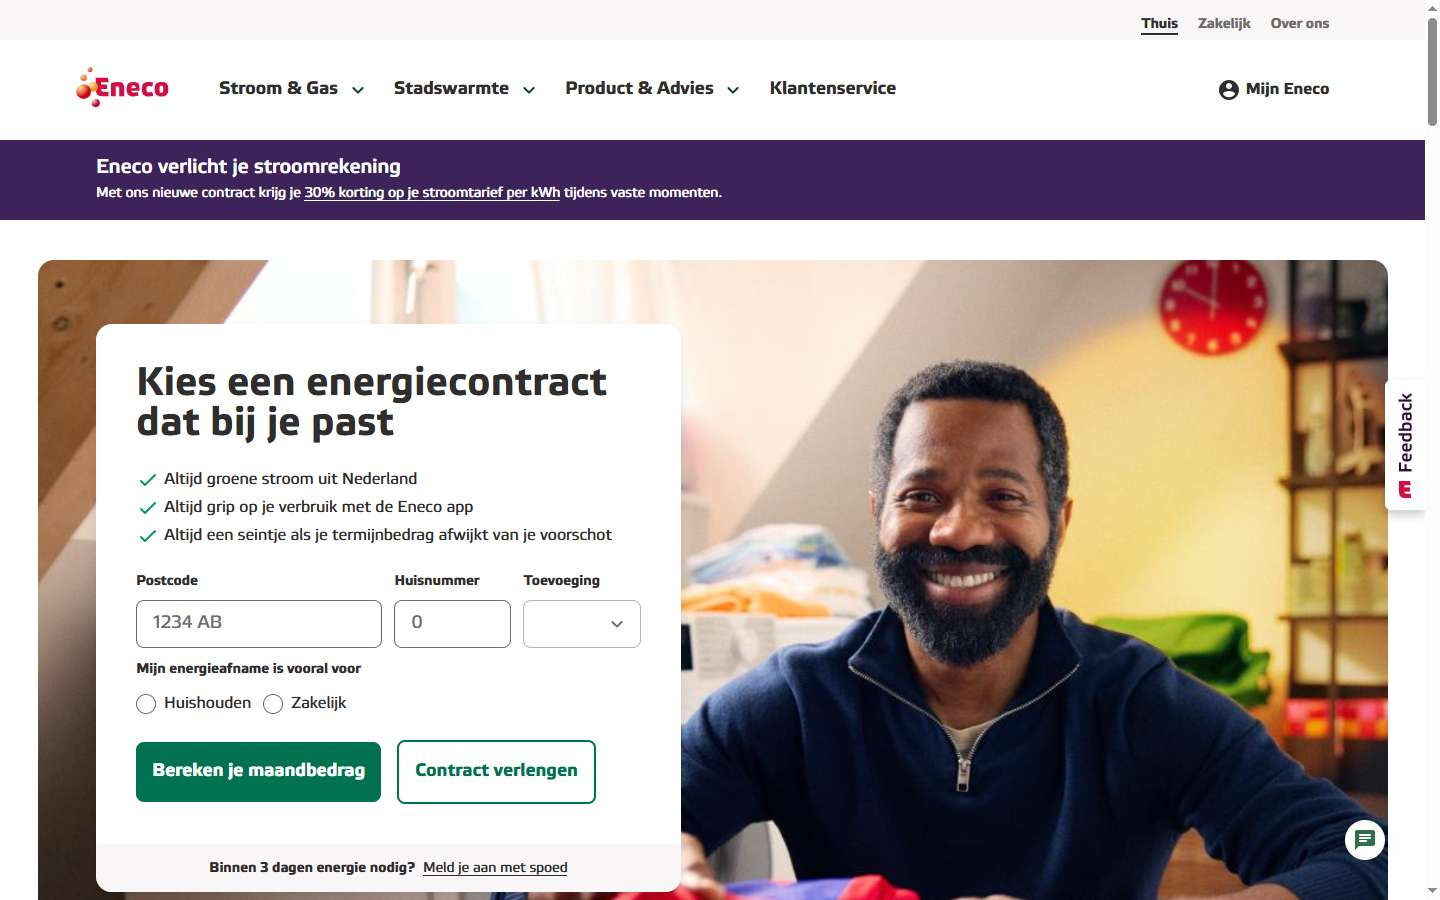
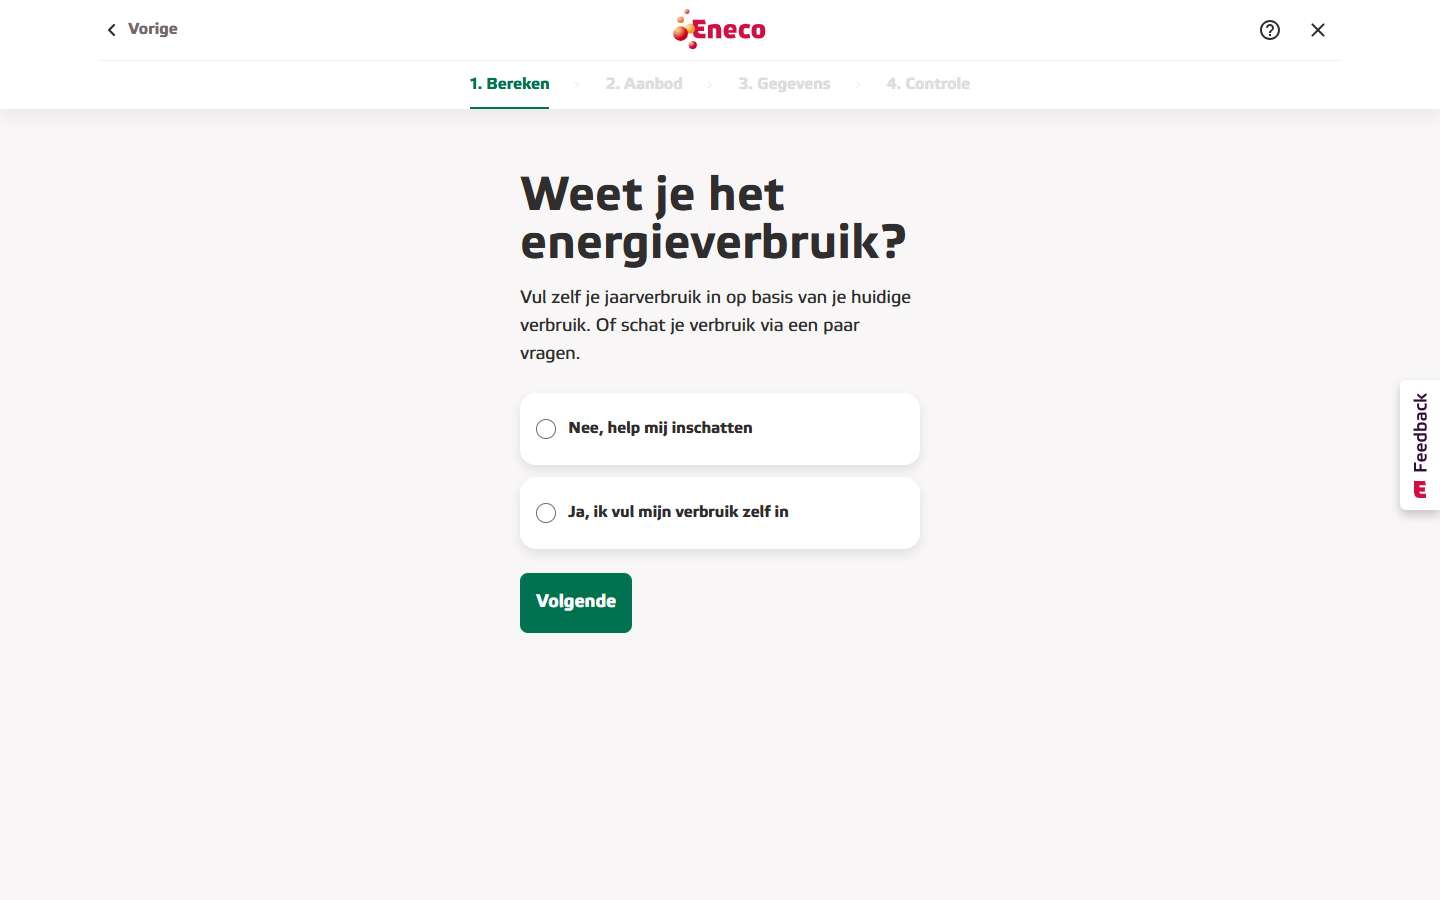
interactive snapshot button

diff --git a/apps/web/src/pages/ScenarioEditor.tsx b/apps/web/src/pages/ScenarioEditor.tsx
@@ -86,7 +86,7 @@ export function ScenarioEditor() {
     reload();
   }, [scenarioId]);
 
-  async function takeSnapshot(useUrl: boolean) {
+  async function takeSnapshot(useUrl: boolean, interactiveOnly = false) {
     if (!data) return;
     setErr(null);
     setSnapshotting(true);
@@ -95,6 +95,7 @@ export function ScenarioEditor() {
         url: useUrl ? data.url : undefined,
         session: SESSION,
         compact: true,
+        interactiveOnly,
       });
       setTree(res.tree);
     } catch (e: any) {
@@ -171,11 +172,28 @@ export function ScenarioEditor() {
     }
   }
 
-  async function playScenario() {
+  async function playScenario(opts: { reset?: boolean } = {}) {
     setErr(null);
     setPlayStatus(null);
     if (!previewActive) setPreviewActive(true);
-    if (!sessionAlive) {
+    if (opts.reset) {
+      setPlayStatus('Resetting session…');
+      setSessionAlive(false);
+      try {
+        await api.closeSession(SESSION).catch(() => undefined);
+        const r = await api.bootstrapSession(SESSION);
+        setSessionAlive(r.alive);
+        if (!r.alive) {
+          setPlayStatus(null);
+          setErr('Reset finished but the session did not come back up.');
+          return;
+        }
+      } catch (e: any) {
+        setPlayStatus(null);
+        setErr(e.message ?? String(e));
+        return;
+      }
+    } else if (!sessionAlive) {
       setPlayStatus('Bootstrapping session…');
       try {
         const r = await api.bootstrapSession(SESSION);
@@ -454,8 +472,15 @@ export function ScenarioEditor() {
             <button onClick={() => setPreviewActive((v) => !v)}>
               {previewActive ? 'stop' : 'start'}
             </button>{' '}
-            <button onClick={playScenario} disabled={data.steps.length === 0}>
+            <button onClick={() => playScenario()} disabled={data.steps.length === 0}>
               ▶ Play scenario
+            </button>{' '}
+            <button
+              onClick={() => playScenario({ reset: true })}
+              disabled={data.steps.length === 0 || resetting}
+              title="Reset the browser session, then play the scenario"
+            >
+              ↻▶ Reset &amp; play
             </button>
             {playStatus && <span className="muted" style={{ marginLeft: 8 }}>{playStatus}</span>}
           </h2>
@@ -468,6 +493,13 @@ export function ScenarioEditor() {
             </button>
             <button onClick={() => takeSnapshot(false)} disabled={snapshotting}>
               Snapshot current page
+            </button>
+            <button
+              onClick={() => takeSnapshot(false, true)}
+              disabled={snapshotting}
+              title="Snapshot current page, interactive elements only (-i)"
+            >
+              Snapshot interactive (-i)
             </button>
           </div>
           {tree && (